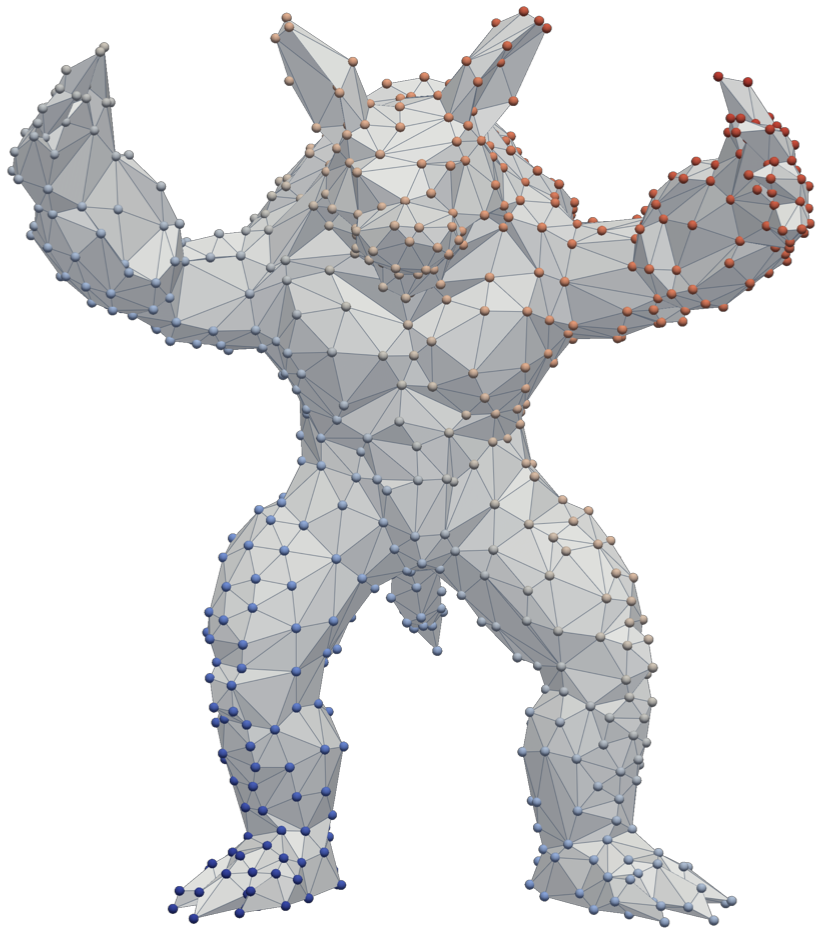
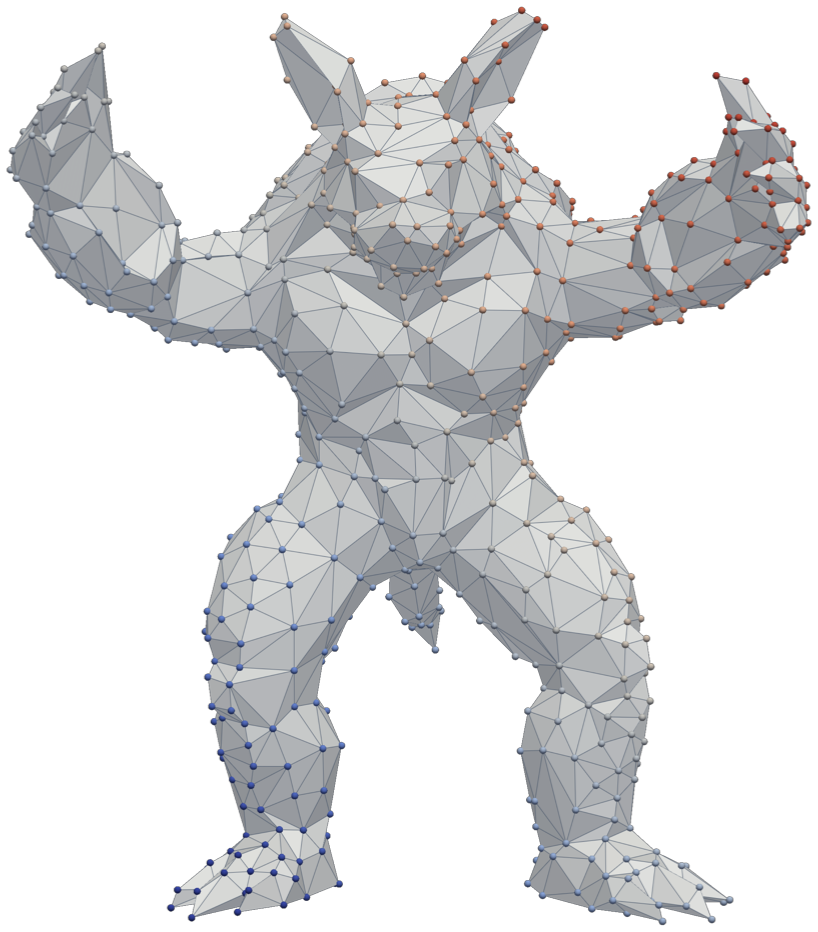
Slide 25: match vertex-ball size across clicks so click 2 doesn't resize
Click 1 used 5.5px dots, click 2 used 22px balls — the silhouette grew at
click 2. Use the same 16px balls on both (only the colour changes at click 2).

diff --git a/gen/gen_29_discretization.py b/gen/gen_29_discretization.py
@@ -55,7 +55,7 @@ def build():
     p.add_mesh(pv.PolyData(V, faces), color="#dfe3e8", smooth_shading=False,
                show_edges=True, edge_color="#475569", line_width=1,
                ambient=0.4, diffuse=0.66)
-    p.add_mesh(pv.PolyData(V), color="#0f172a", point_size=5.5,
+    p.add_mesh(pv.PolyData(V), color="#0f172a", point_size=16,
                render_points_as_spheres=True)
     setup(p); shots.append(render("disc_mesh.png"))
 
@@ -68,7 +68,7 @@ def build():
                ambient=0.4, diffuse=0.66)
     pts = pv.PolyData(V); pts["f"] = f
     p.add_mesh(pts, scalars="f", cmap="coolwarm", clim=(-cap, cap),
-               point_size=22, render_points_as_spheres=True, show_scalar_bar=False)
+               point_size=16, render_points_as_spheres=True, show_scalar_bar=False)
     setup(p); shots.append(render("disc_func.png"))
 
     # crop all three to a common box so the framing never jumps between clicks
